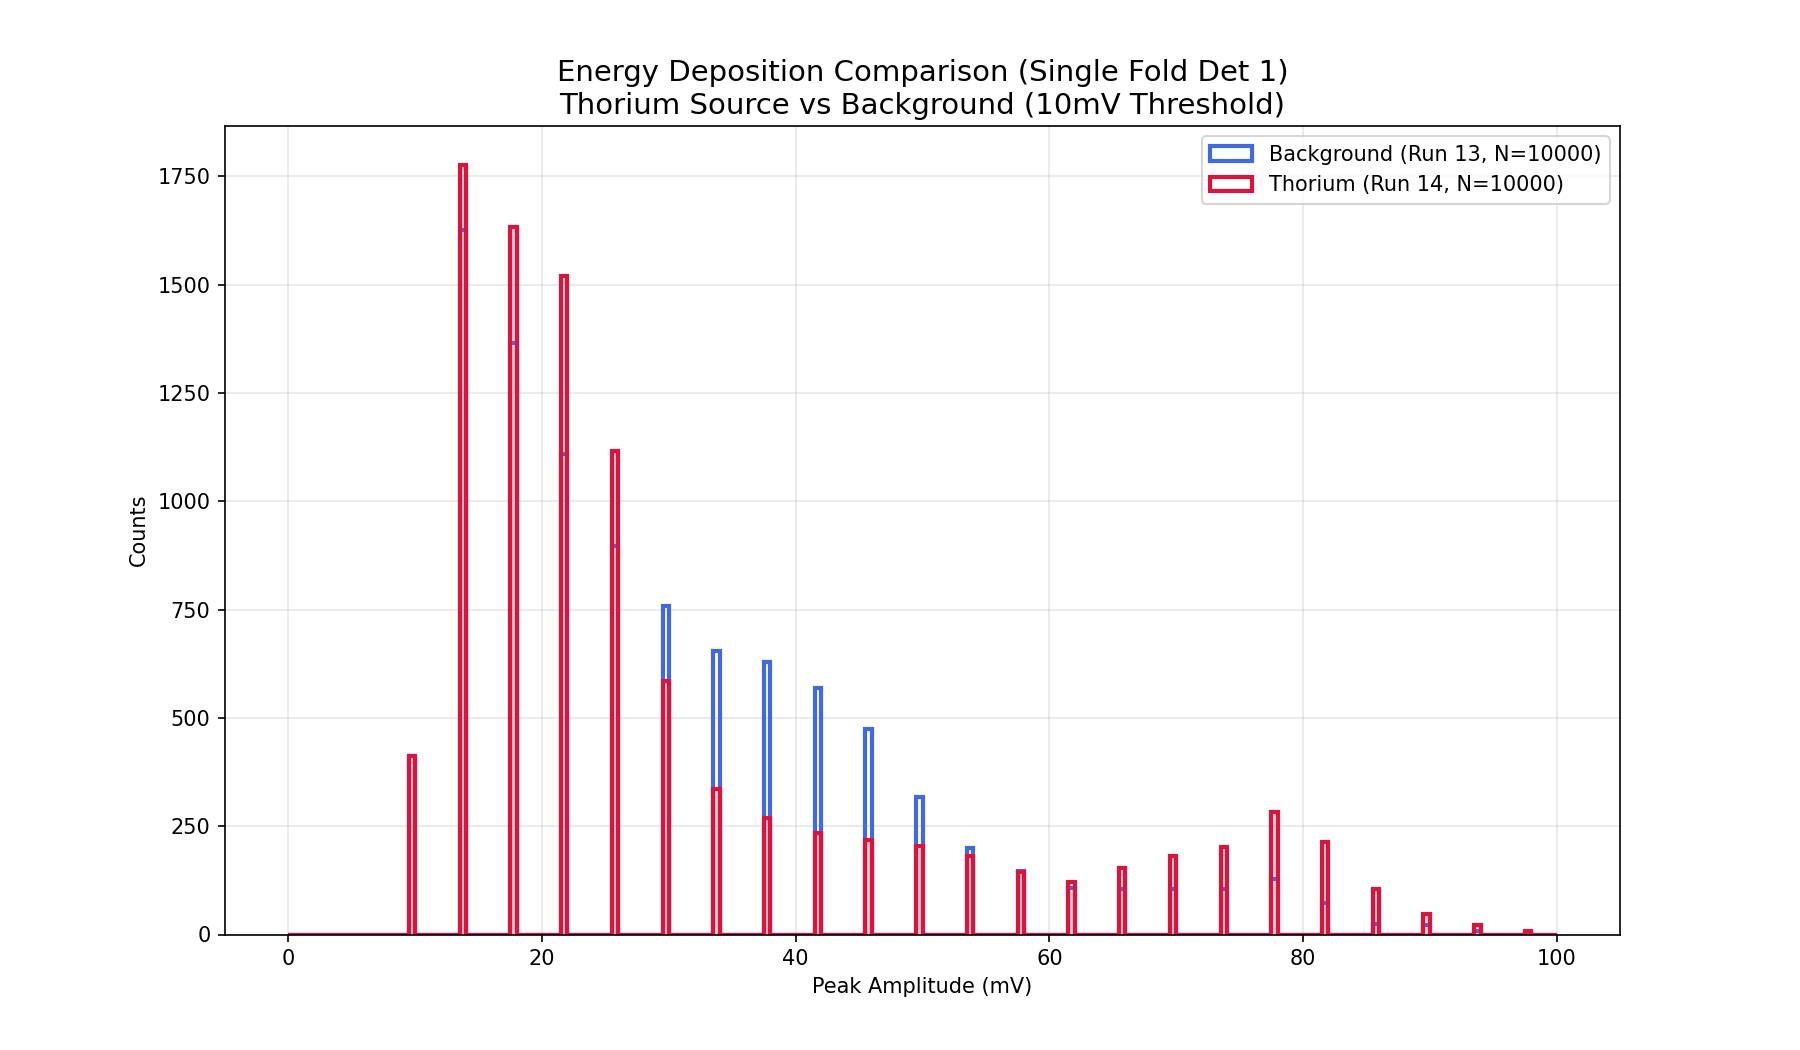
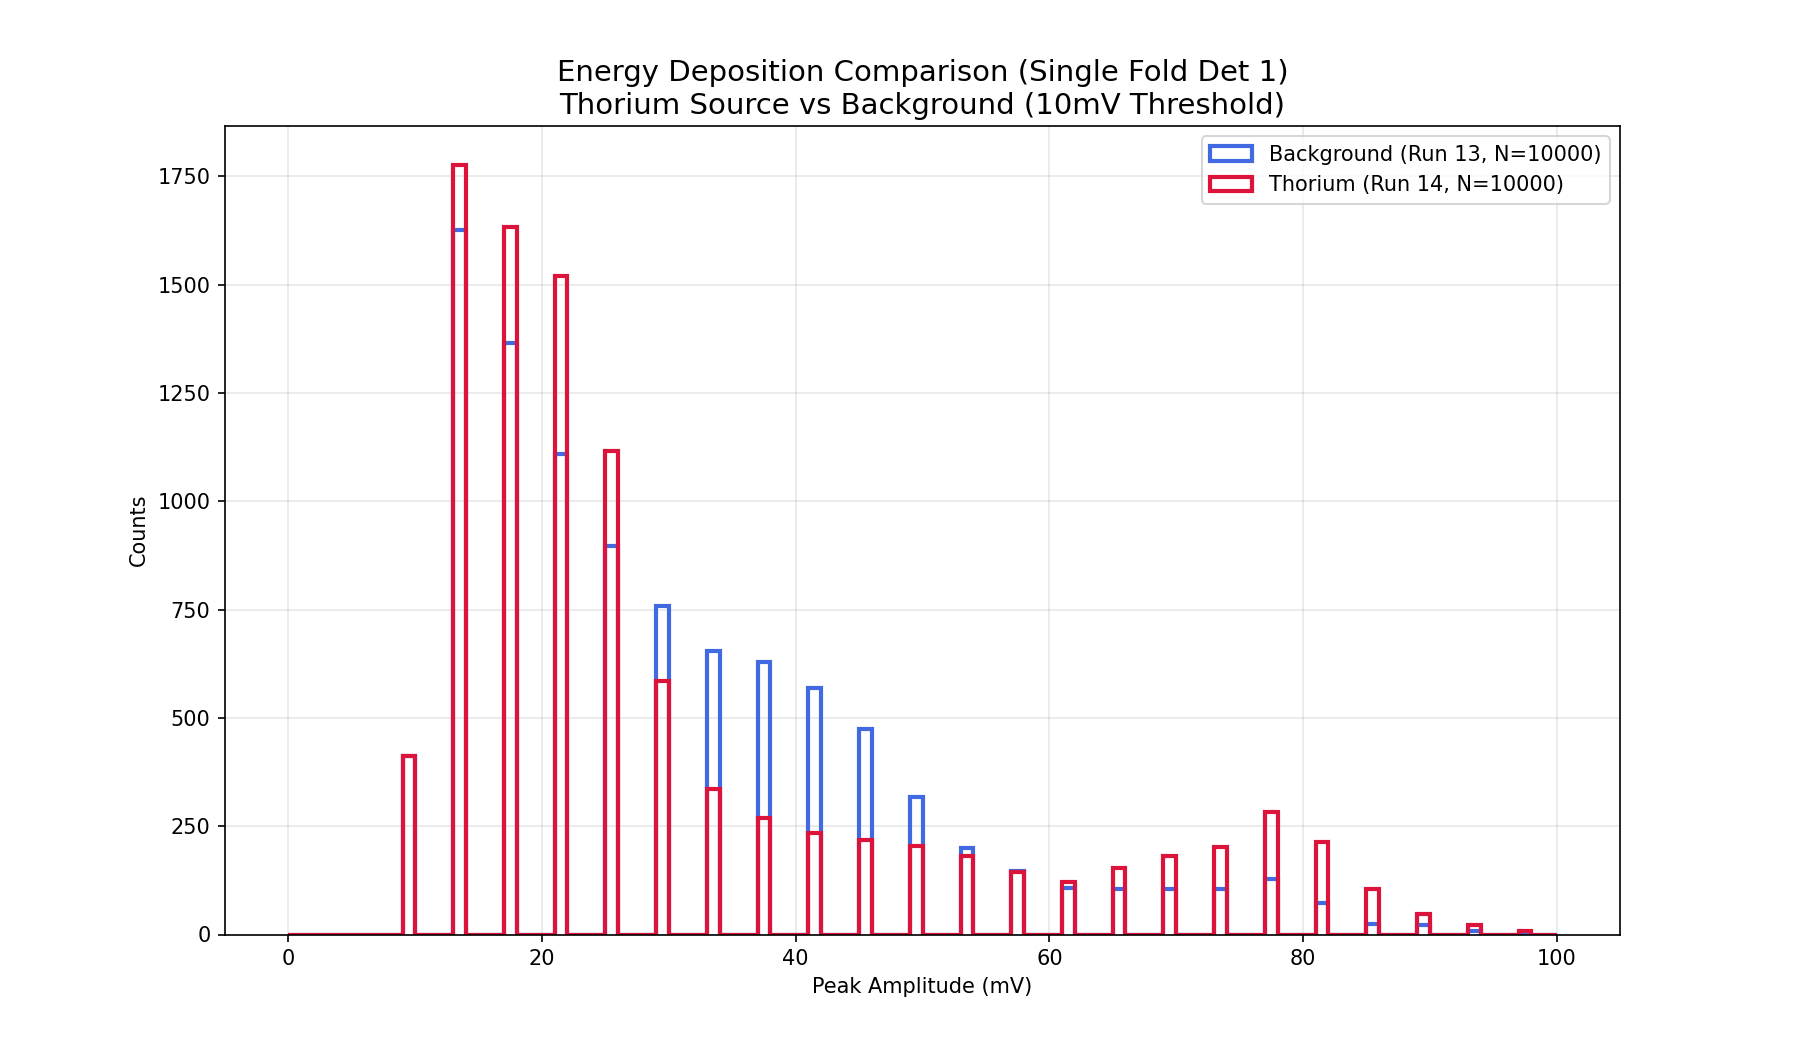
Analysis: Refine Thorium comparison plot (clean lines, 1mV bins)

Changed region(s): [[0.2178, 0.1524, 0.7778, 0.8838]]

diff --git a/analysis/compare_13_14.py b/analysis/compare_13_14.py
@@ -34,8 +34,8 @@ def main():
 
     plt.figure(figsize=(12, 7))
     
-    # Range: 0 to 100 mV to focus on the primary data region
-    bins = np.linspace(0, 100, 201)
+    # Range: 0 to 100 mV with 1 mV bin width to smooth quantization effects
+    bins = np.linspace(0, 100, 101)
     
     plt.hist(amps_13, bins=bins, histtype='step', linewidth=2, 
              color='royalblue', label=f'Background (Run 13, N={len(amps_13)})')
@@ -43,17 +43,11 @@ def main():
     plt.hist(amps_14, bins=bins, histtype='step', linewidth=2, 
              color='crimson', label=f'Thorium (Run 14, N={len(amps_14)})')
     
-    # Overlay filled for Thorium to make it stand out
-    plt.hist(amps_14, bins=bins, histtype='stepfilled', alpha=0.2, color='crimson')
-
     plt.title("Energy Deposition Comparison (Single Fold Det 1)\nThorium Source vs Background (10mV Threshold)", fontsize=14)
     plt.xlabel("Peak Amplitude (mV)")
     plt.ylabel("Counts")
     plt.legend()
     plt.grid(True, alpha=0.3)
-    
-    # Zoom in on low energy region in an inset? 
-    # Or just set a log scale option? Let's keep it linear first as requested.
     
     os.makedirs(os.path.dirname(OUTPUT_PATH), exist_ok=True)
     plt.savefig(OUTPUT_PATH, dpi=150)
